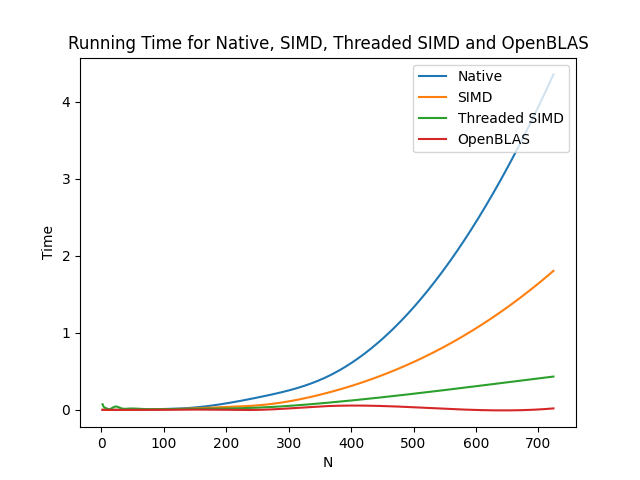
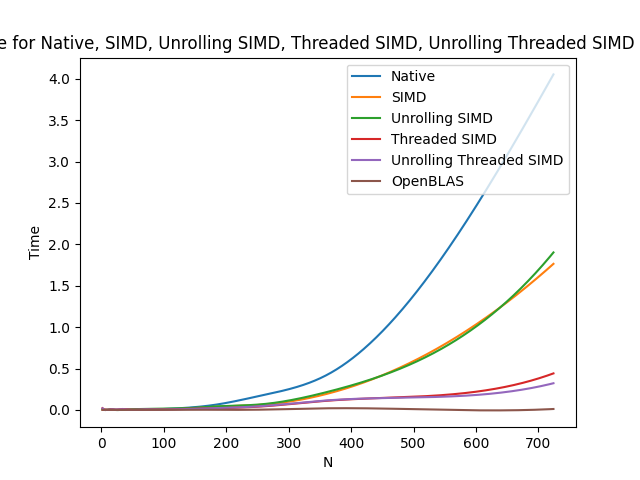
lesson04 code done

diff --git a/lesson04/src_mat/src/mat_mul_test.c b/lesson04/src_mat/src/mat_mul_test.c
@@ -2,6 +2,7 @@
 #include <stdio.h>
 #include <stdlib.h>
 #include <time.h>
+#include <unistd.h>
 
 #include "cblas.h"
 #include "mat.h"
@@ -10,11 +11,11 @@
 Mat *A_g, *B_g;
 
 void do_calc(int task_id, int M, int N, Mat** C, const char* task_name,
-             double* results, int result_tail) {
+             double* results, int result_tail, int processor_number) {
   struct timespec start, end;
   Mat* A = NULL;
   Mat* B = NULL;
-  const int aligns[] = {0, 1, 1, 0};
+  const int aligns[] = {0, 1, 1, 1, 1, 0};
   int aligned = aligns[task_id];
   A = mat_create(M, N, aligned);
   B = mat_create(N, M, aligned);
@@ -32,24 +33,28 @@ void do_calc(int task_id, int M, int N, Mat** C, const char* task_name,
       B->data[x][y] = B_g->data[x][y];
     }
   }
-  pdebug("%10s计算: 开始计时\n", task_name);
+  pdebug("[%d]\t%s 计算: 开始计时\n", task_id, task_name);
   clock_gettime(CLOCK_REALTIME, &start);
   if (task_id == 0) {
     mat_mul(A, B, *C);
     if (mat_native_timeout) {
-      pdebug("%s 超时！\n", task_name);
+      pdebug("\t%s 超时！\n", task_name);
     }
   } else if (task_id == 1) {
-    mat_mul_threaded(A, B, *C, 0);
+    mat_mul_threaded(A, B, *C, 1, 0);
   } else if (task_id == 2) {
-    mat_mul_threaded(A, B, *C, 1);
+    mat_mul_threaded(A, B, *C, 1, 1);
   } else if (task_id == 3) {
+    mat_mul_threaded(A, B, *C, processor_number, 0);
+  } else if (task_id == 4) {
+    mat_mul_threaded(A, B, *C, processor_number, 1);
+  } else if (task_id == 5) {
     cblas_dgemm(CblasRowMajor, CblasNoTrans, CblasNoTrans, A->w, B->h, A->h, 1,
                 A->content, A->w, B->content, B->h, 0, (*C)->content, (*C)->h);
   }
   clock_gettime(CLOCK_REALTIME, &end);
   results[result_tail] = time_delta(start, end);
-  pdebug("%10s: 计算用时: %3.3lfs\n", task_name, results[result_tail]);
+  pdebug("\t%s: 计算用时: %3.3lfs\n", task_name, results[result_tail]);
 }
 
 int main(int argc, char** argv) {
@@ -86,13 +91,21 @@ int main(int argc, char** argv) {
 
   // const char task_names[][64] = {"简单矩阵", "单线程矩阵优化",
   // "多线程矩阵优化", "OpenBLAS"};
-  const char task_names[][64] = {"Native", "SIMD", "Threaded SIMD", "OpenBLAS"};
+  const char task_names[][64] = {"Native",
+                                 "SIMD",
+                                 "Unrolling SIMD",
+                                 "Threaded SIMD",
+                                 "Unrolling Threaded SIMD",
+                                 "OpenBLAS"};
 
-  const int task_number = 4;
+  const int task_number = 6;
   const int task_start = 0;
 
+  int processor_number = sysconf(_SC_NPROCESSORS_ONLN);
+  pdebug("Running with %d cores.\n", processor_number);
   for (int i = task_start; i < task_number; i++) {
-    do_calc(i, M, N, &C[result_tail], task_names[i], results, result_tail);
+    do_calc(i, M, N, &C[result_tail], task_names[i], results, result_tail,
+            processor_number);
     result_tail++;
   }
 
@@ -113,11 +126,6 @@ int main(int argc, char** argv) {
   fclose(fp);
   if (task_start == 0 && !mat_native_timeout) {
     pdebug("校验...\n");
-    // mat_print(C[0]);
-    // for (int k = 1; k < result_tail; k++) {
-    //   printf("%s: \n", task_names[k]);
-    //   mat_print(C[k]);
-    // }
     int is_ok[32];
     for (int i = 0; i < result_tail; i++) {
       is_ok[i] = 1;
@@ -127,12 +135,23 @@ int main(int argc, char** argv) {
         for (int k = 1; k < result_tail; k++) {
           if (is_ok[k]) {
             if (fabs(C[0]->data[x][y] - C[k]->data[x][y]) >= eps) {
-              printf("K = %4d; %s计算错误! (%d, %d): [%lf, %lf]\n", K,
+              printf("K = %4d; %s 计算错误! (%d, %d): [%lf, %lf]\n", K,
                      task_names[k], x, y, C[0]->data[x][y], C[k]->data[x][y]);
               is_ok[k] = 0;
             }
           }
         }
+      }
+    }
+    int is_ok_all = 1;
+    for (int i = 0; i < result_tail; i++)
+      if (!is_ok[i]) is_ok_all = 0;
+    if (!is_ok_all) {
+      puts("[0]\t参考: ");
+      mat_print(C[0]);
+      for (int k = 1; k < result_tail; k++) {
+        printf("[%d]\t%s: \n", k, task_names[k]);
+        mat_print(C[k]);
       }
     }
   }

diff --git a/lesson04/src_mat/src/mat.h b/lesson04/src_mat/src/mat.h
@@ -12,7 +12,7 @@
 // #define CHIMAT_TYPE __attribute((vector_size(32))) double
 
 #define MAT_PRINT_WIDTH 5
-#define MAT_PRINT_FORMAT "%2.2lf"
+#define MAT_PRINT_FORMAT "\t%2.2lf"
 
 
 typedef struct {
@@ -29,6 +29,7 @@ typedef struct {
   Mat* a;
   Mat* b;
   Mat* c;
+  int unrolling;
 } mat_mul_thread_t;
 
 Mat* mat_create(int width, int height, int aligned);
@@ -45,7 +46,8 @@ Mat* mat_mul(Mat *a, Mat *b, Mat *c_source);
 
 void mat_print(Mat* a);
 
-Mat* mat_mul_threaded(Mat* a, Mat* b, Mat* c_source, int threaded);
+// Mat* mat_mul_threaded(Mat* a, Mat* b, Mat* c_source, int threaded);
+Mat* mat_mul_threaded(Mat* a, Mat* b, Mat* c, int processor_number, int unrolling);
 void mat_mul_cell(mat_mul_thread_t* thread_data);
 
 extern double mat_native_time_limit;
